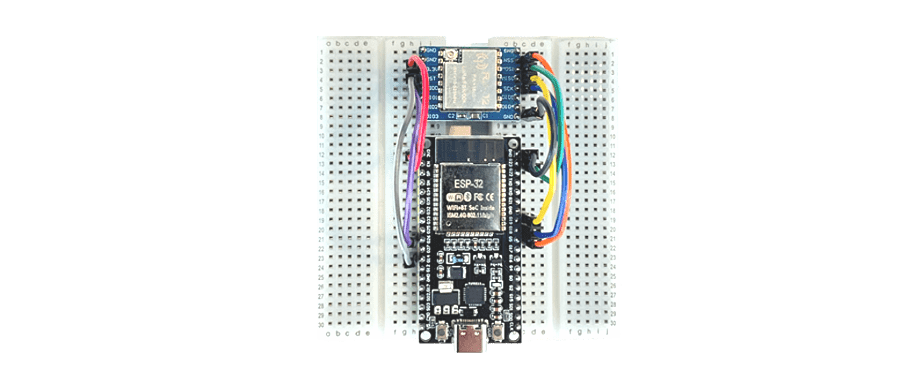
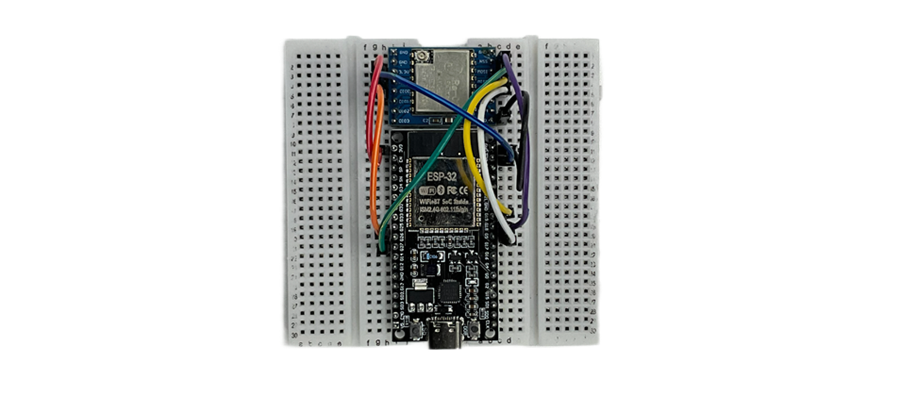
kit-assembly fix

Changed region(s): [[0.3111, 0.0868, 0.6844, 0.9263]]

diff --git a/docs/kit-assembly.md b/docs/kit-assembly.md
@@ -58,11 +58,11 @@ title: Сборка набора
 | `GND` | `GND` |
 | `3.3V` | `3V3` |
 | `MISO` | `G19` |
-| `MOSI` | `G23` |
-| `SCK` | `G18` |
-| `NSS` | `G5` |
+| `MOSI` | `G27` |
+| `SCK` | `G5` |
+| `NSS` | `G18` |
 | `DIO0` | `G26` |
-| `RST` | `G14` |
+| `RST` | `G23` |
 
 ![](images/kit-assembly-breadboard-all-wires.png)
 
